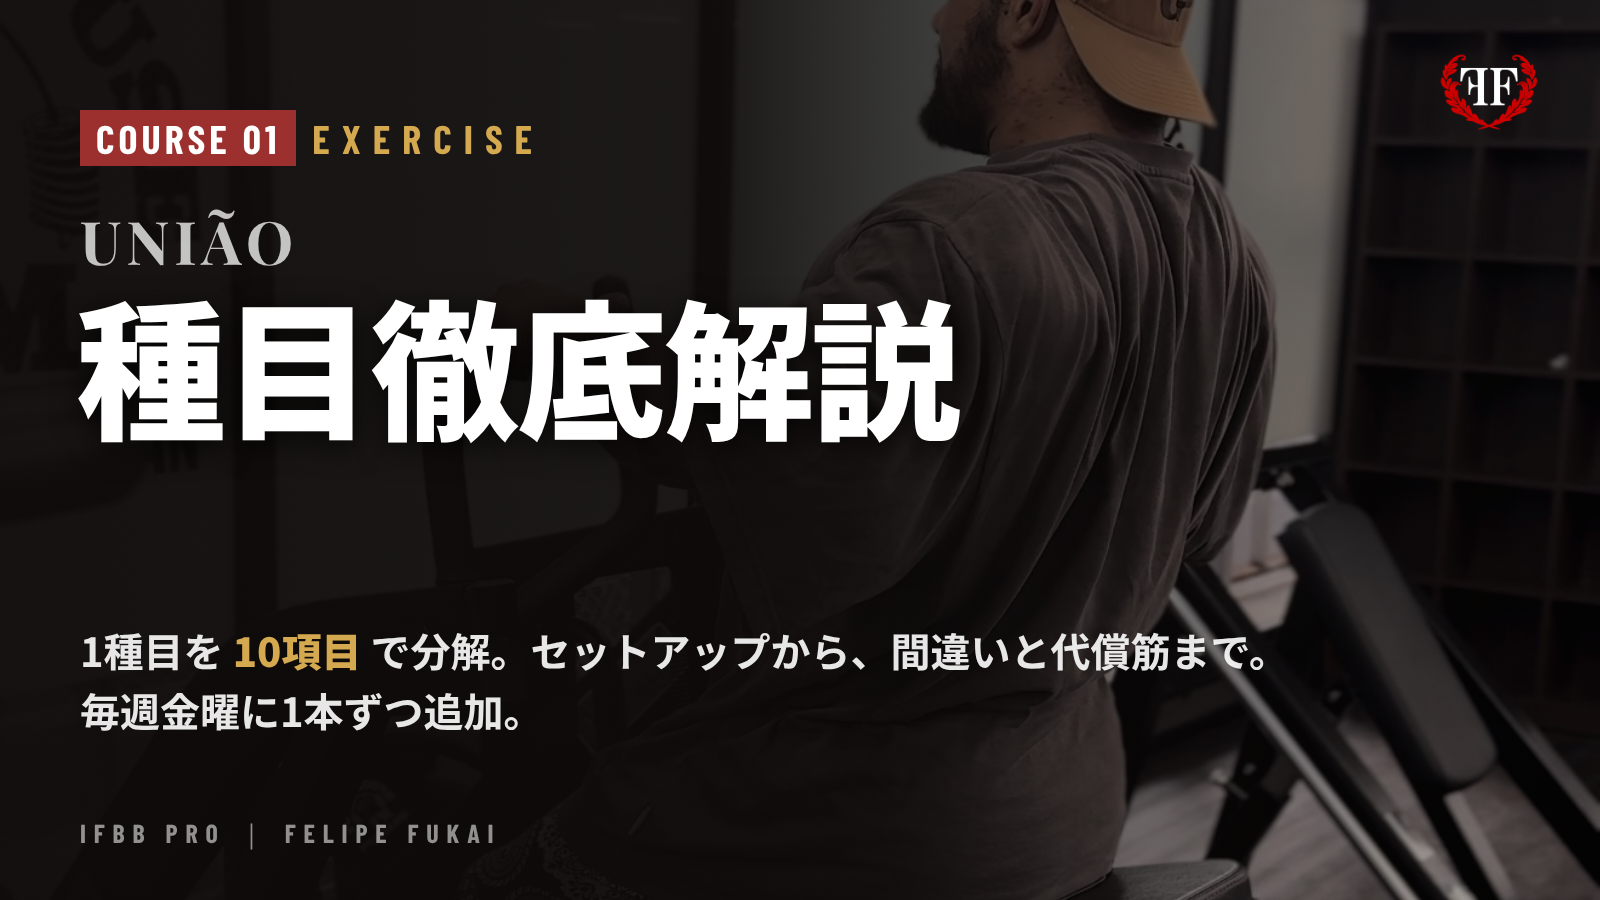
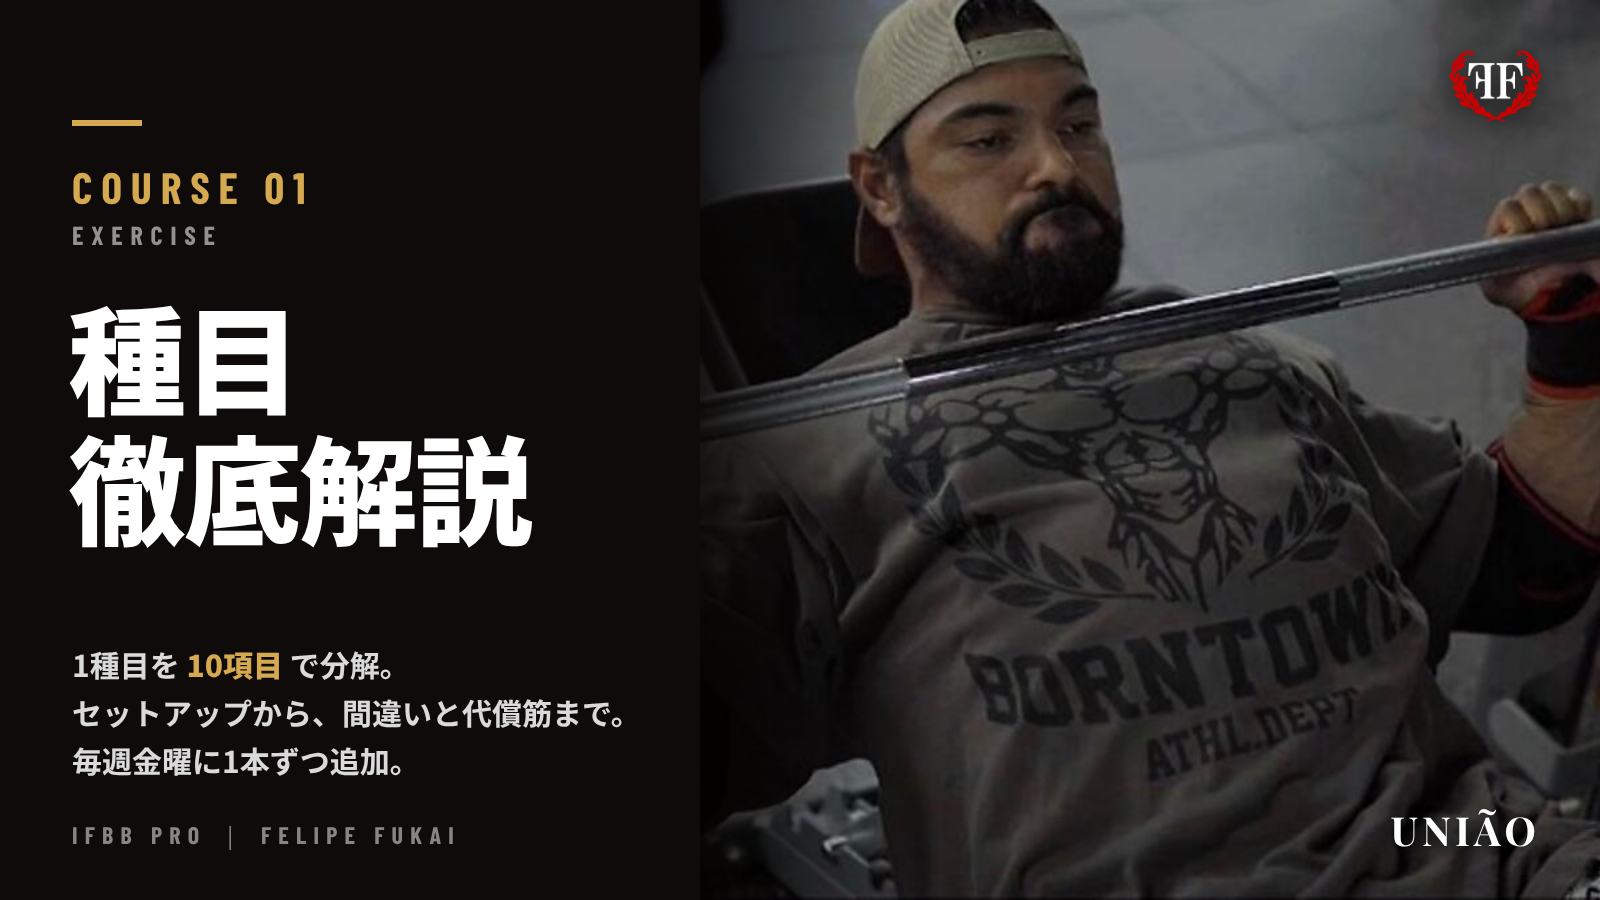
Course covers: split layout with new photos (#131)
* Add UPPER DAY YouTube thumbnails (part 1, 2) and the series thumbnail template

Claude-Session: https://claude.ai/code/session_01HRty6kL8VRnpLHHHzSF3iS

* UPPER DAY thumbnails: reframe to keep the face visible and hide the burned-in caption

Claude-Session: https://claude.ai/code/session_01HRty6kL8VRnpLHHHzSF3iS

* UPPER DAY thumbnails v2: loud yellow/red creator style, distinct from the community look

Claude-Session: https://claude.ai/code/session_01HRty6kL8VRnpLHHHzSF3iS

* UPPER DAY thumbnails v3: competition roar photo plus gym face chip

Claude-Session: https://claude.ai/code/session_01HRty6kL8VRnpLHHHzSF3iS

* UPPER DAY thumbnails: soften hook to Felipe's voice

Claude-Session: https://claude.ai/code/session_01HRty6kL8VRnpLHHHzSF3iS

* UPPER DAY thumbnails: keep the hook line on one row

Claude-Session: https://claude.ai/code/session_01HRty6kL8VRnpLHHHzSF3iS

* UPPER DAY thumbnails: hook label on one line

Claude-Session: https://claude.ai/code/session_01HRty6kL8VRnpLHHHzSF3iS

* UPPER DAY thumbnails on the brand guide: FF black base, white type, laurel red as the single accent, gym press photo; add visual identity PDF

Claude-Session: https://claude.ai/code/session_01HRty6kL8VRnpLHHHzSF3iS

* UPPER DAY thumbnail: three promise-led headline variants on the brand template

Claude-Session: https://claude.ai/code/session_01HRty6kL8VRnpLHHHzSF3iS

* Add post-live story images (thanks + next live 11/23) and story template
[…]

diff --git a/assets/whop/course-cover.css b/assets/whop/course-cover.css
@@ -4,13 +4,15 @@
 @font-face{font-family:"PF";src:url("../fonts/node_modules/@fontsource/playfair-display/files/playfair-display-latin-700-normal.woff2") format("woff2");font-weight:700}
 *{margin:0;padding:0;box-sizing:border-box}html,body{width:1600px;height:900px;overflow:hidden;background:#0E0B0A}
 body{font-family:"NS",sans-serif;color:#fff;position:relative}
-.bg{position:absolute;inset:0;background-size:cover;background-repeat:no-repeat;filter:saturate(.7) contrast(1.1) brightness(.9)}
-.fade{position:absolute;inset:0;background:linear-gradient(90deg,rgba(14,11,10,.96) 0%,rgba(14,11,10,.92) 45%,rgba(14,11,10,.55) 70%,rgba(14,11,10,.25) 100%)}
-.logo{position:absolute;right:60px;top:52px;height:80px}
-.k{position:absolute;left:80px;top:110px;font-family:"BC",sans-serif;font-size:40px;letter-spacing:.3em;color:#D4A94F}
-.k b{display:inline-block;background:#9C302E;color:#fff;padding:4px 16px;margin-right:16px;letter-spacing:.1em}
-.uni{position:absolute;left:80px;top:200px;font-family:"PF",serif;font-size:60px;letter-spacing:.08em;color:rgba(255,255,255,.75)}
-.t{position:absolute;left:76px;top:280px;font-size:150px;font-weight:900;line-height:1.1;letter-spacing:-.02em;text-shadow:0 6px 30px rgba(0,0,0,.8)}
-.s{position:absolute;left:80px;top:620px;font-size:40px;font-weight:700;line-height:1.5;color:rgba(255,255,255,.9)}
+.ph{position:absolute;left:680px;top:0;right:0;bottom:0;background-size:cover;background-repeat:no-repeat;filter:saturate(.85) contrast(1.08)}
+.ph::after{content:"";position:absolute;inset:0;background:linear-gradient(90deg,rgba(14,11,10,.9) 0%,rgba(14,11,10,0) 22%)}
+.panel{position:absolute;left:0;top:0;width:700px;bottom:0;background:#0E0B0A}
+.line{position:absolute;left:72px;top:120px;width:70px;height:6px;background:#D4A94F}
+.k{position:absolute;left:72px;top:160px;font-family:"BC",sans-serif;font-size:44px;letter-spacing:.2em;color:#D4A94F}
+.k small{display:block;font-size:26px;letter-spacing:.3em;color:rgba(255,255,255,.55);margin-top:6px}
+.t{position:absolute;left:68px;top:290px;width:600px;font-size:118px;font-weight:900;line-height:1.1;letter-spacing:-.02em}
+.s{position:absolute;left:72px;top:640px;width:580px;font-size:30px;font-weight:700;line-height:1.6;color:rgba(255,255,255,.85)}
 .s b{color:#D4A94F}
-.foot{position:absolute;left:80px;bottom:48px;font-family:"BC",sans-serif;font-size:26px;letter-spacing:.3em;color:rgba(255,255,255,.55)}
+.foot{position:absolute;left:72px;bottom:48px;font-family:"BC",sans-serif;font-size:24px;letter-spacing:.3em;color:rgba(255,255,255,.5)}
+.logo{position:absolute;right:56px;top:48px;height:76px;filter:drop-shadow(0 4px 14px rgba(0,0,0,.8))}
+.uni{position:absolute;right:60px;bottom:44px;font-family:"PF",serif;font-size:40px;letter-spacing:.1em;color:#fff;text-shadow:0 4px 16px rgba(0,0,0,.9)}

diff --git a/assets/whop/course-cover-template.html b/assets/whop/course-cover-template.html
@@ -1,9 +1,9 @@
-<!doctype html><html lang="ja"><head><meta charset="utf-8"><link rel="stylesheet" href="base.css"></head><body>
-<div class="bg" style="background-image:url(row.jpg);background-position:70% 40%"></div><div class="fade"></div>
-<img class="logo" src="logo.png" alt="">
-<p class="k"><b>COURSE 01</b>EXERCISE</p>
-<p class="uni">UNIÃO</p>
-<p class="t">種目徹底解説</p>
-<p class="s">1種目を <b>10項目</b> で分解。セットアップから、間違いと代償筋まで。<br>毎週金曜に1本ずつ追加。</p>
+<!doctype html><html lang="ja"><head><meta charset="utf-8"><link rel="stylesheet" href="base2.css"></head><body>
+<div class="ph" style="background-image:url(community.jpg);background-position:55% 40%"></div>
+<div class="panel"></div><div class="line"></div>
+<p class="k">COURSE 01<small>EXERCISE</small></p>
+<p class="t">種目<br>徹底解説</p>
+<p class="s">1種目を <b>10項目</b> で分解。<br>セットアップから、間違いと代償筋まで。<br>毎週金曜に1本ずつ追加。</p>
 <p class="foot">IFBB PRO ｜ FELIPE FUKAI</p>
+<img class="logo" src="logo.png" alt=""><p class="uni">UNIÃO</p>
 </body></html>
